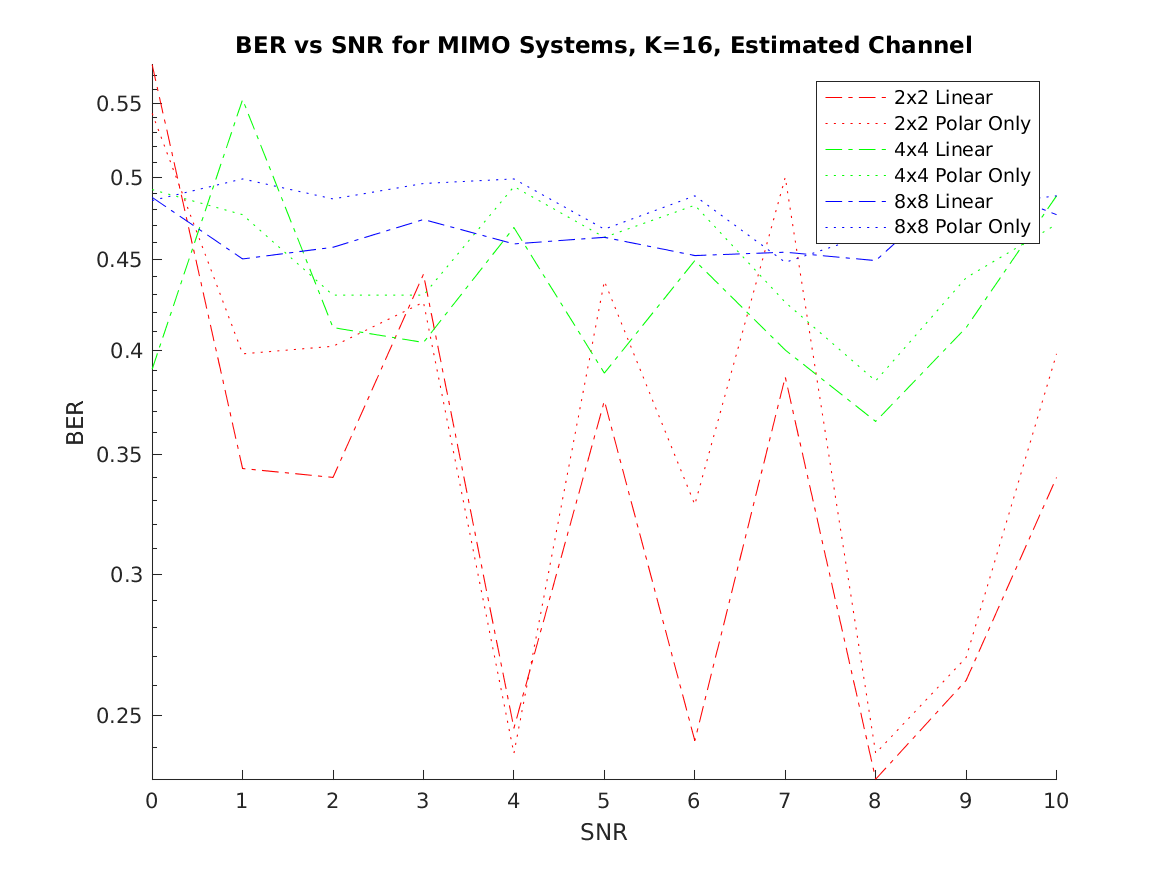
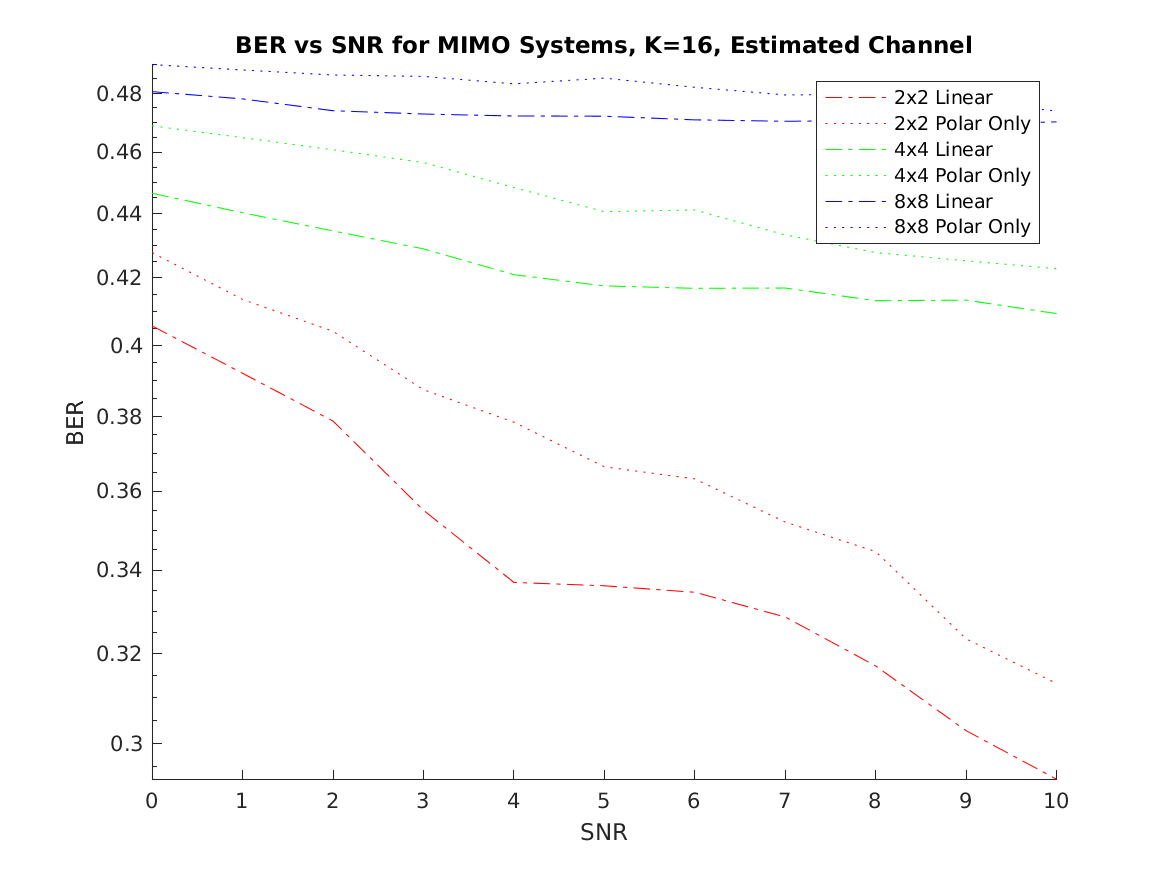
Channel estimate for 1000 iter

diff --git a/PlotEstimateBaseline.m b/PlotEstimateBaseline.m
@@ -1,5 +1,5 @@
 LEN = 4; % how many K-bit length messages we will send (per tx/rx)
-ITERS = 2;
+ITERS = 1000;
 snr = 0:10;
 n = 2; % number of tx and rx antennas
 K = 16; % bits per msg
@@ -129,7 +129,7 @@ Y = H*X + noiseVec; % Nonfading gaussian channel
 %disp('part 2 is')
 %disp(inv((X(:,1))'*(X(:,1))))
 %disp('final is')
-Hest = ((Y(:,1))'.*(X(:,1)))*(inv((X(:,1))'*(X(:,1))))
+Hest = ((Y(:,1))'.*(X(:,1)))*(inv((X(:,1))'*(X(:,1))));
 % MIMO Detect
 [Yhat,wzf,zf] = LinearMIMODecoder(n, newLen, N, Y, qamTab, Hest, normAnt);
 %Yhat - original polar bits it guessed
